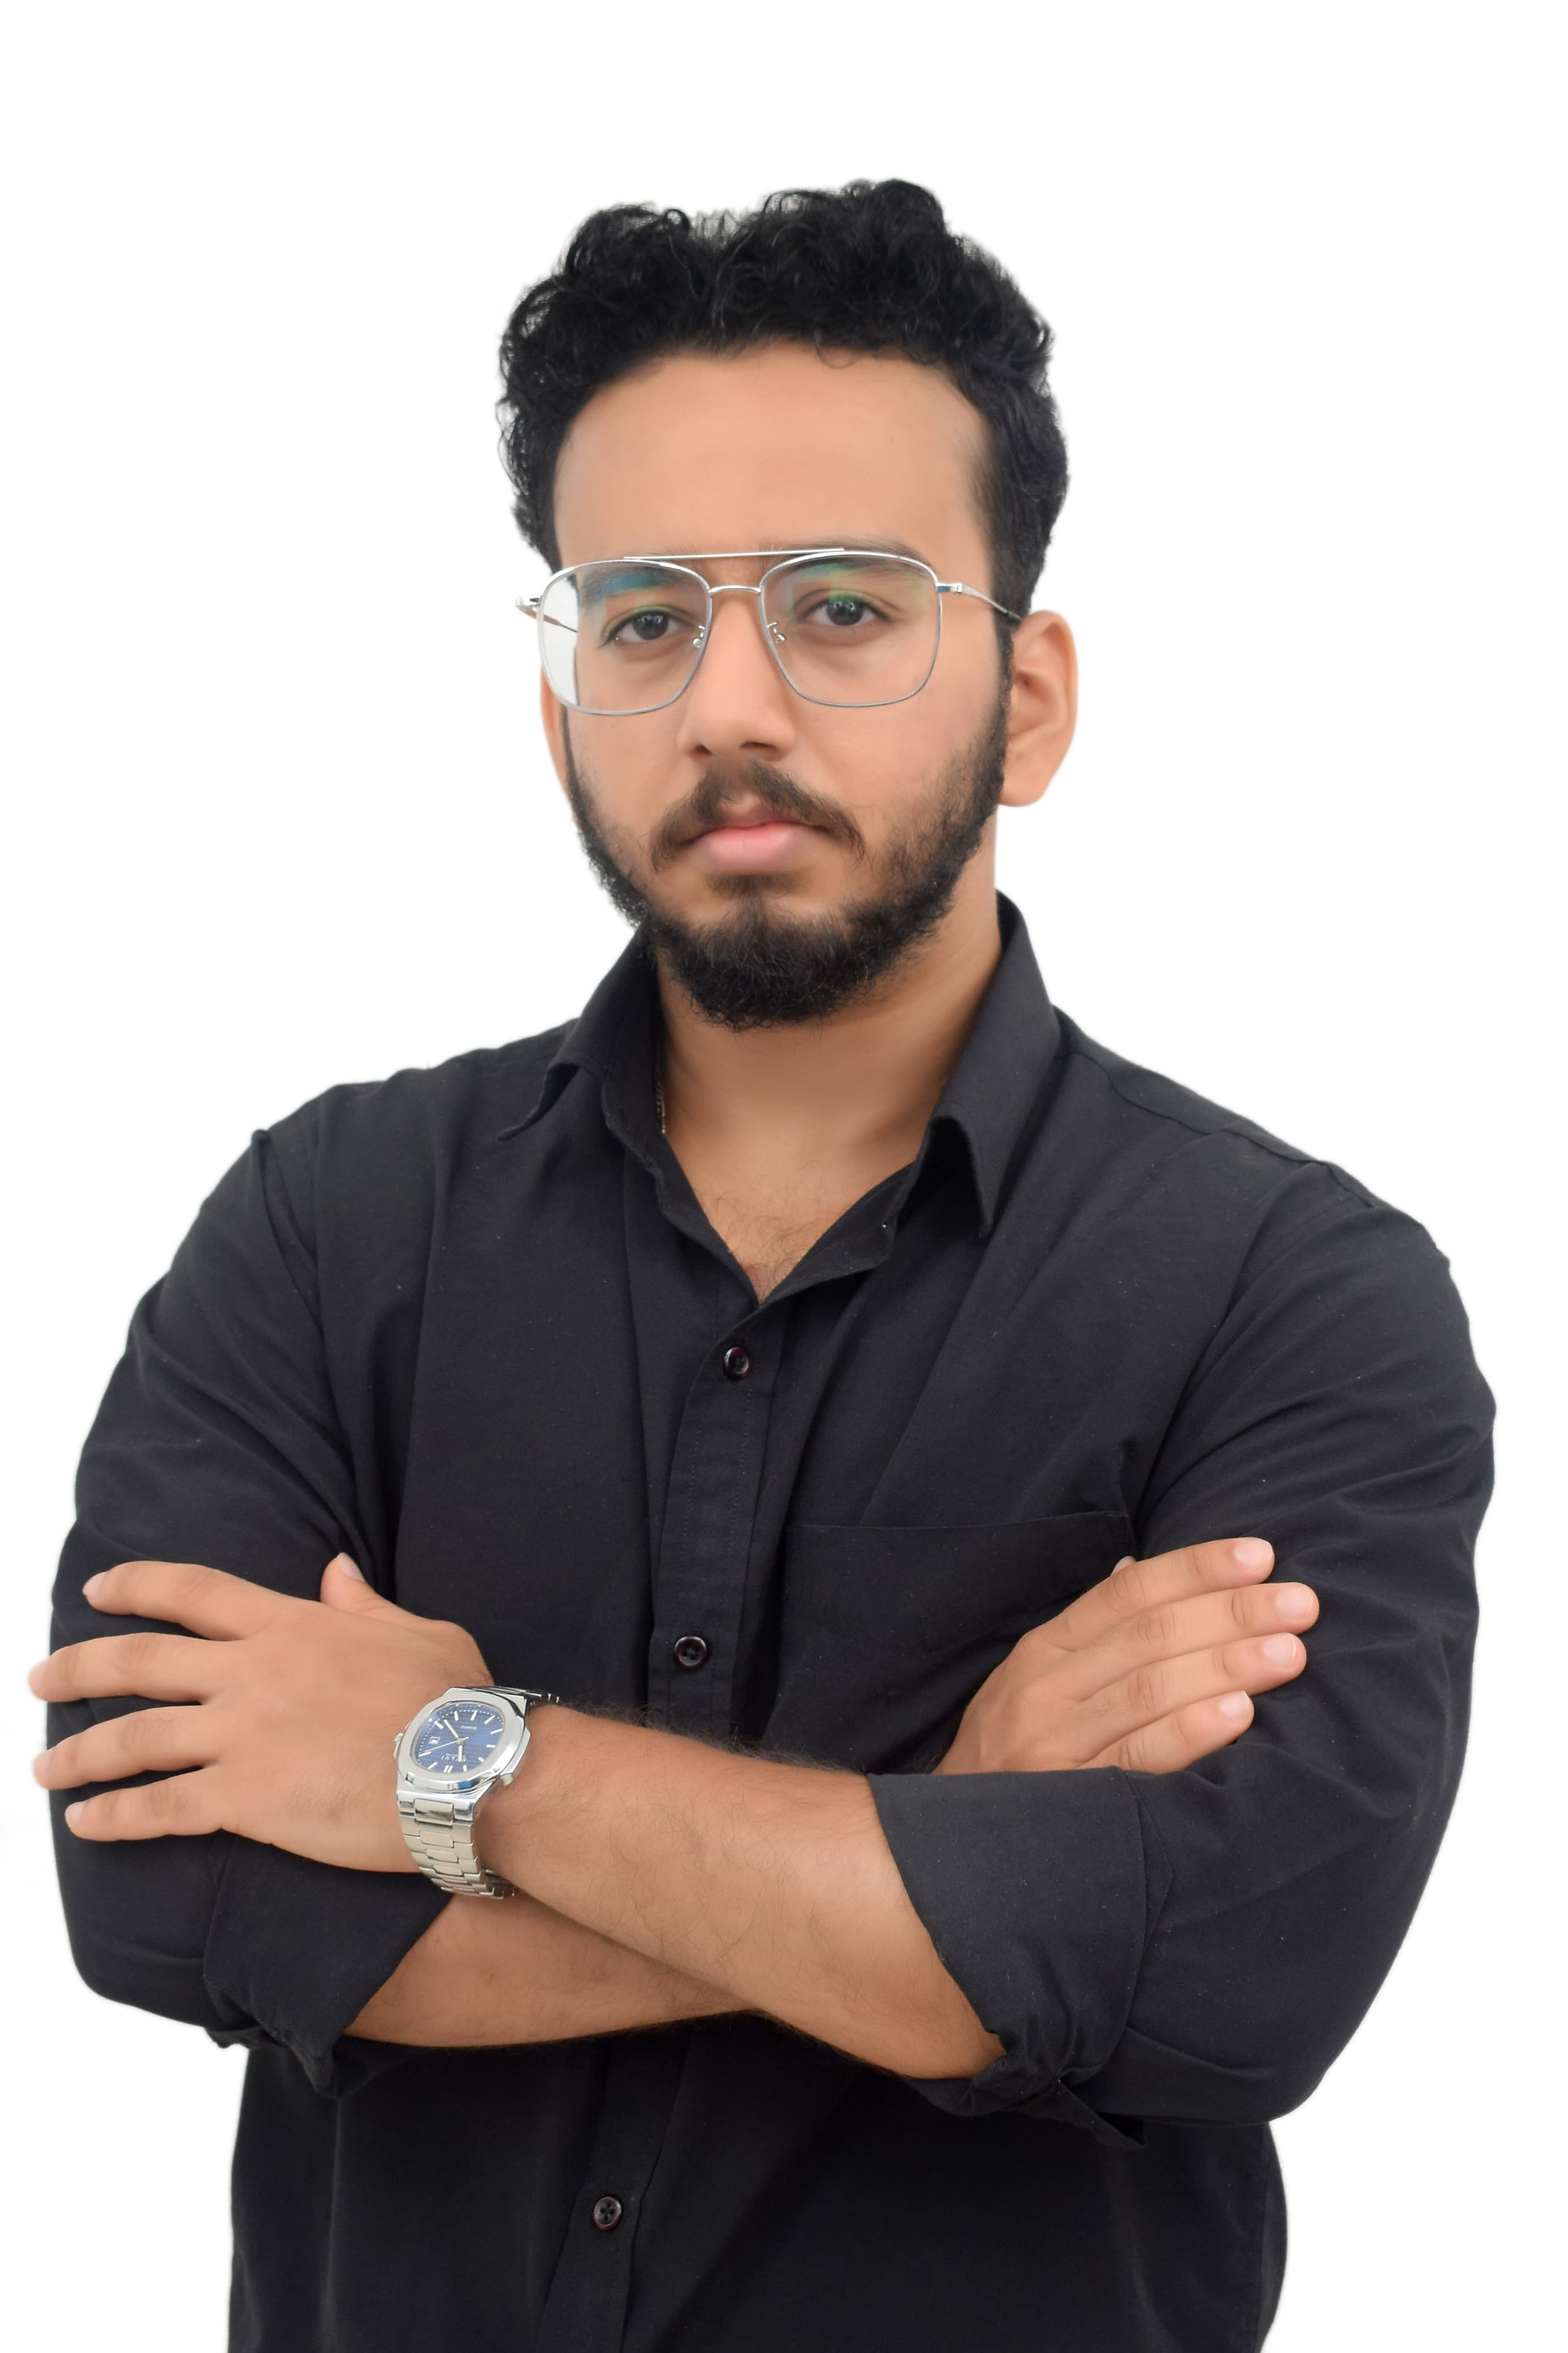
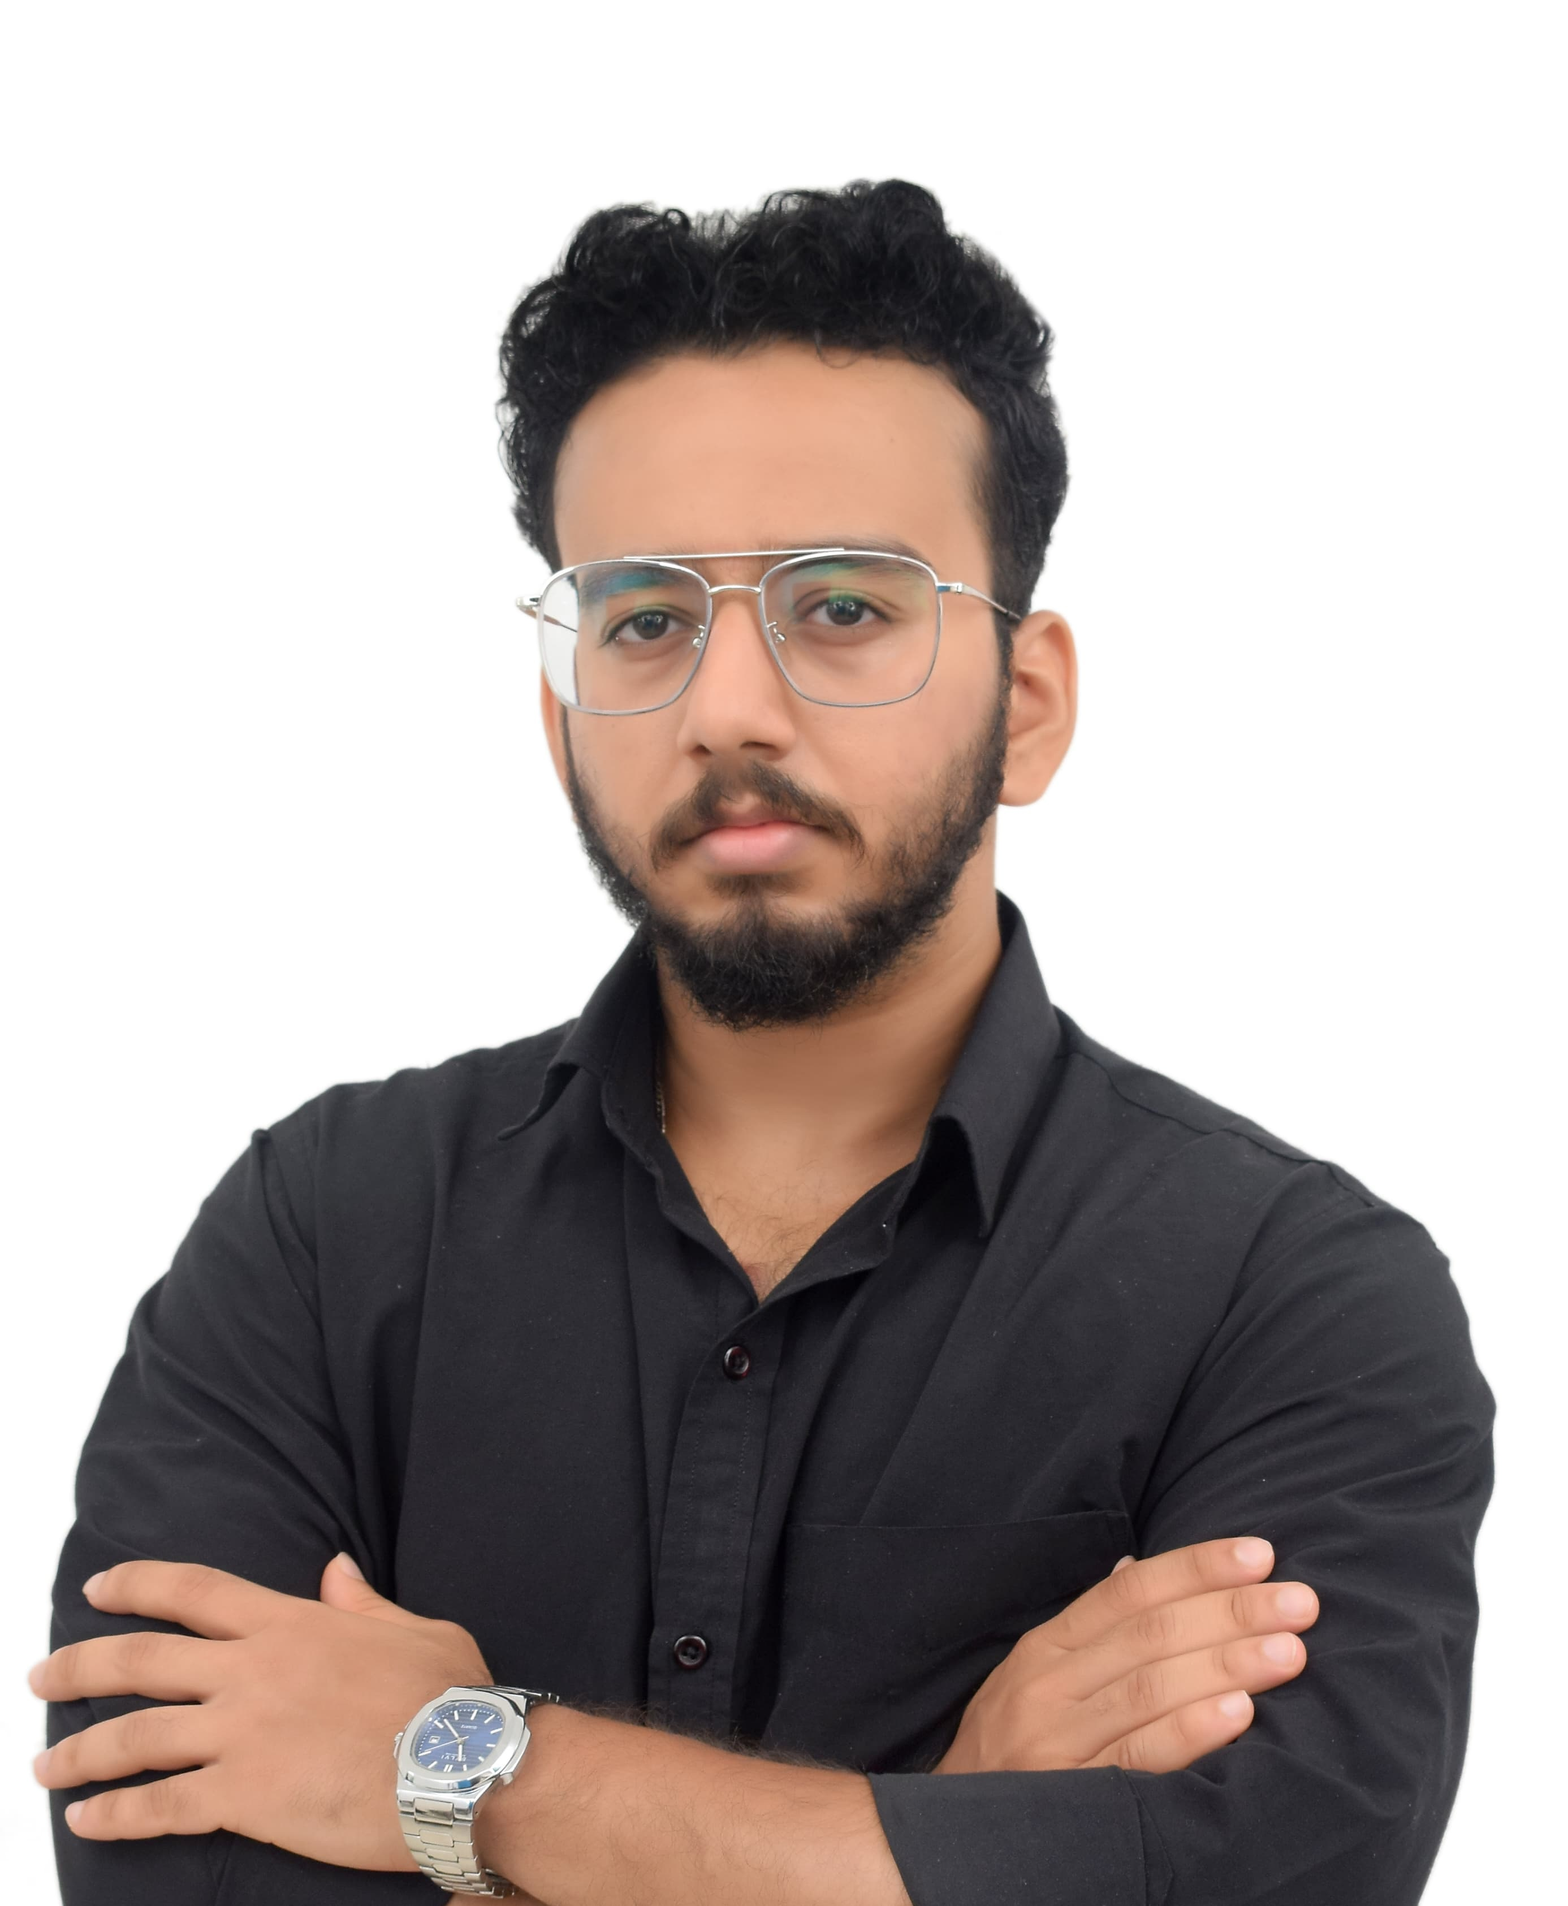
Added/cropped profile pics, added emails to staff page

diff --git a/staff.html b/staff.html
@@ -68,11 +68,11 @@
 
                 <!-- TA 2 -->
                 <div class="text-center flex flex-col items-center">
-                    <img src="assets/image.png" alt="TA"
+                    <img src="assets/gus.png" alt="TA"
                         class="w-60 h-60 rounded-full mx-auto mb-4 object-cover overflow-hidden">
                     <h3 class="text-xl font-bold mb-1">Augustin Liu</h3>
-                    <a href="mailto:" class="text-blue-600 hover:text-blue-800">@penn</a>
-                    <p class="text-gray-800">Office Hours: Tue 5-7 PM</p>
+                    <a href="mailto:" class="text-blue-600 hover:text-blue-800">gusliu@seas.upenn.edu</a>
+                    <p class="text-gray-800">Office Hours: Tue 11PM, Wed 6-8PM & 11PM</p>
                 </div>
 
                 <!-- TA 3 -->
@@ -80,7 +80,7 @@
                     <img src="/assets/Louis.png" alt="TA"
                         class="w-60 h-60 rounded-full mx-auto mb-4 object-cover overflow-hidden">
                     <h3 class="text-xl font-bold mb-1">Louis Petro</h3>
-                    <a href="mailto:" class="text-blue-600 hover:text-blue-800">@penn</a>
+                    <a href="mailto:" class="text-blue-600 hover:text-blue-800">petrol@seas.upenn.edu</a>
                     <p class="text-gray-800">Office Hours: Wed 10AM - 12PM</p>
                 </div>
 
@@ -88,42 +88,42 @@
                     <img src="assets/josh.png" alt="TA"
                         class="w-60 h-60 rounded-full mx-auto mb-4 object-cover overflow-hidden">
                     <h3 class="text-xl font-bold mb-1">Josh Ludan</h3>
-                    <a href="mailto:" class="text-blue-600 hover:text-blue-800">@penn</a>
+                    <a href="mailto:" class="text-blue-600 hover:text-blue-800">jludan@seas.upenn.edu</a>
                     <p class="text-gray-800">Office Hours: Tue 5-7 PM</p>
                 </div>
                 <div class="text-center flex flex-col items-center">
                     <img src="assets/Dhruv.jpg" alt="TA"
                         class="w-60 h-60 rounded-full mx-auto mb-4 object-cover overflow-hidden">
                     <h3 class="text-xl font-bold mb-1">Dhruv Verma</h3>
-                    <a href="mailto:" class="text-blue-600 hover:text-blue-800">@penn</a>
+                    <a href="mailto:" class="text-blue-600 hover:text-blue-800">vdhruv@seas.upenn.edu</a>
                     <p class="text-gray-800">Office Hours: Tue 5-7 PM</p>
                 </div>
                 <div class="text-center flex flex-col items-center">
                     <img src="assets/taher.jpg" TA"
                         class="w-60 h-60 rounded-full mx-auto mb-4 object-cover overflow-hidden">
                     <h3 class="text-xl font-bold mb-1">Taher Kapadia</h3>
-                    <a href="mailto:" class="text-blue-600 hover:text-blue-800">@penn</a>
+                    <a href="mailto:" class="text-blue-600 hover:text-blue-800">taherk@seas.upenn.edu</a>
                     <p class="text-gray-800">Office Hours: Tue 5-7 PM</p>
                 </div>
                 <div class="text-center flex flex-col items-center">
                     <img src="assets/Aiden.JPG" alt="TA"
                         class="w-60 h-60 rounded-full mx-auto mb-4 object-cover overflow-hidden">
                     <h3 class="text-xl font-bold mb-1">Aiden Lee</h3>
-                    <a href="mailto:" class="text-blue-600 hover:text-blue-800">@penn</a>
+                    <a href="mailto:" class="text-blue-600 hover:text-blue-800">aidenlee@seas.upenn.edu</a>
                     <p class="text-gray-800">Office Hours: Tue 5-7 PM</p>
                 </div>
                 <div class="text-center flex flex-col items-center">
                     <img src="assets/image.png" alt="TA"
                         class="w-60 h-60 rounded-full mx-auto mb-4 object-cover overflow-hidden">
                     <h3 class="text-xl font-bold mb-1">Joshua Lowell</h3>
-                    <a href="mailto:" class="text-blue-600 hover:text-blue-800">@penn</a>
+                    <a href="mailto:" class="text-blue-600 hover:text-blue-800">jlowell@seas.upenn.edu</a>
                     <p class="text-gray-800">Office Hours: Tue 5-7 PM</p>
                 </div>
                 <div class="text-center flex flex-col items-center">
                     <img src="assets/image.png" alt="TA"
                         class="w-60 h-60 rounded-full mx-auto mb-4 object-cover overflow-hidden">
                     <h3 class="text-xl font-bold mb-1">Sahith Jagarlamudi</h3>
-                    <a href="mailto:" class="text-blue-600 hover:text-blue-800">@penn</a>
+                    <a href="mailto:" class="text-blue-600 hover:text-blue-800">sahith@seas.upenn.edu</a>
                     <p class="text-gray-800">Office Hours: Tue 5-7 PM</p>
                 </div>
             </div>
